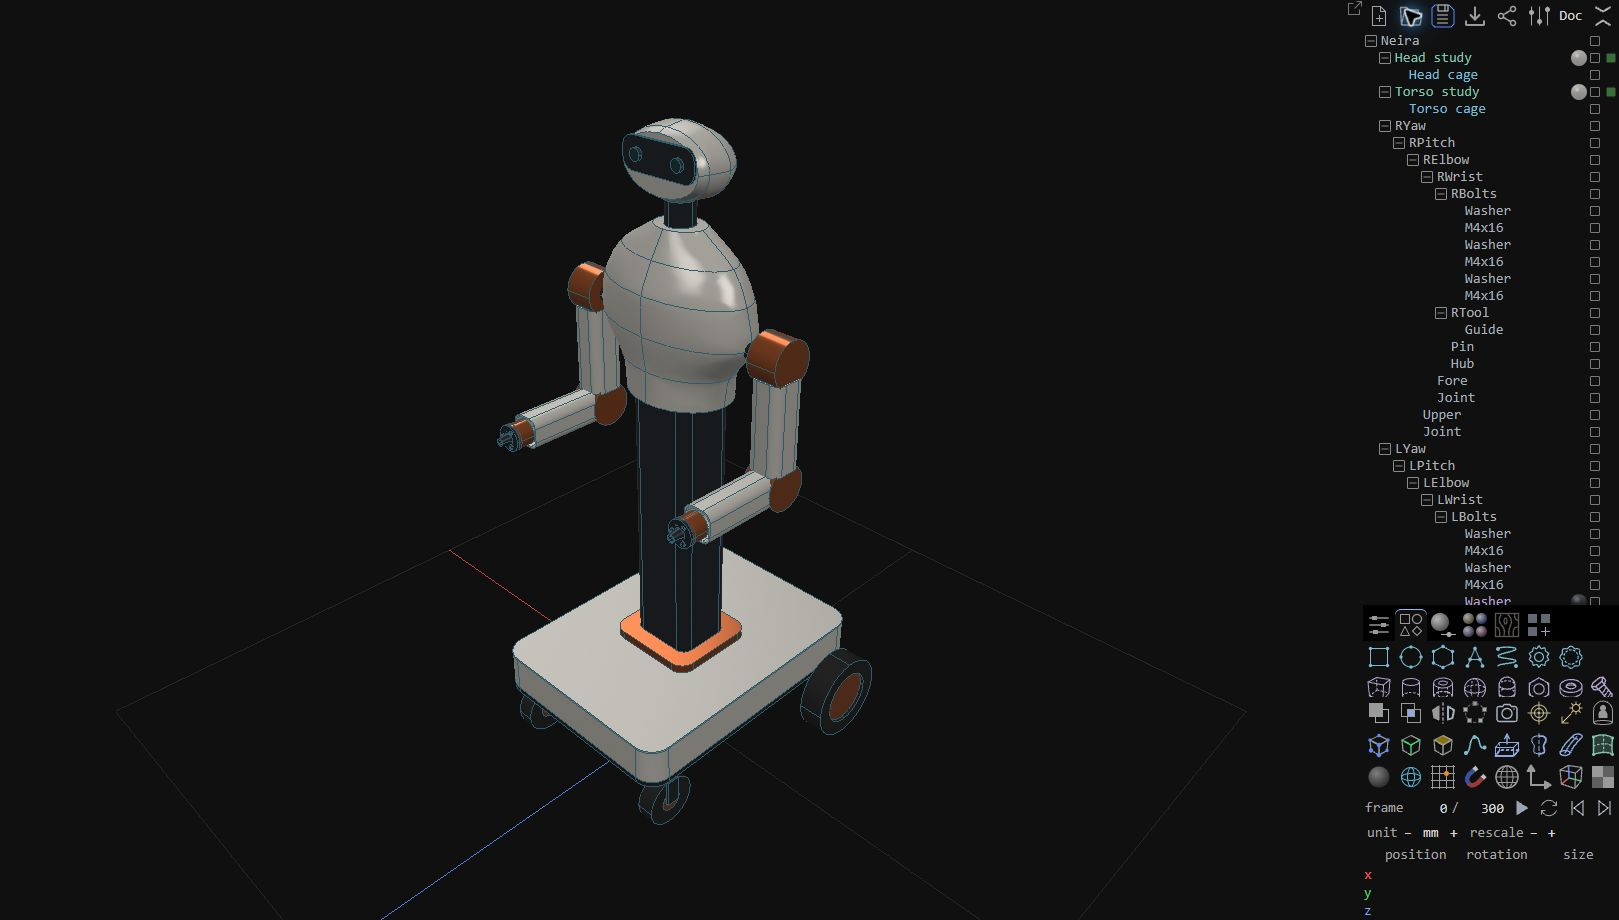
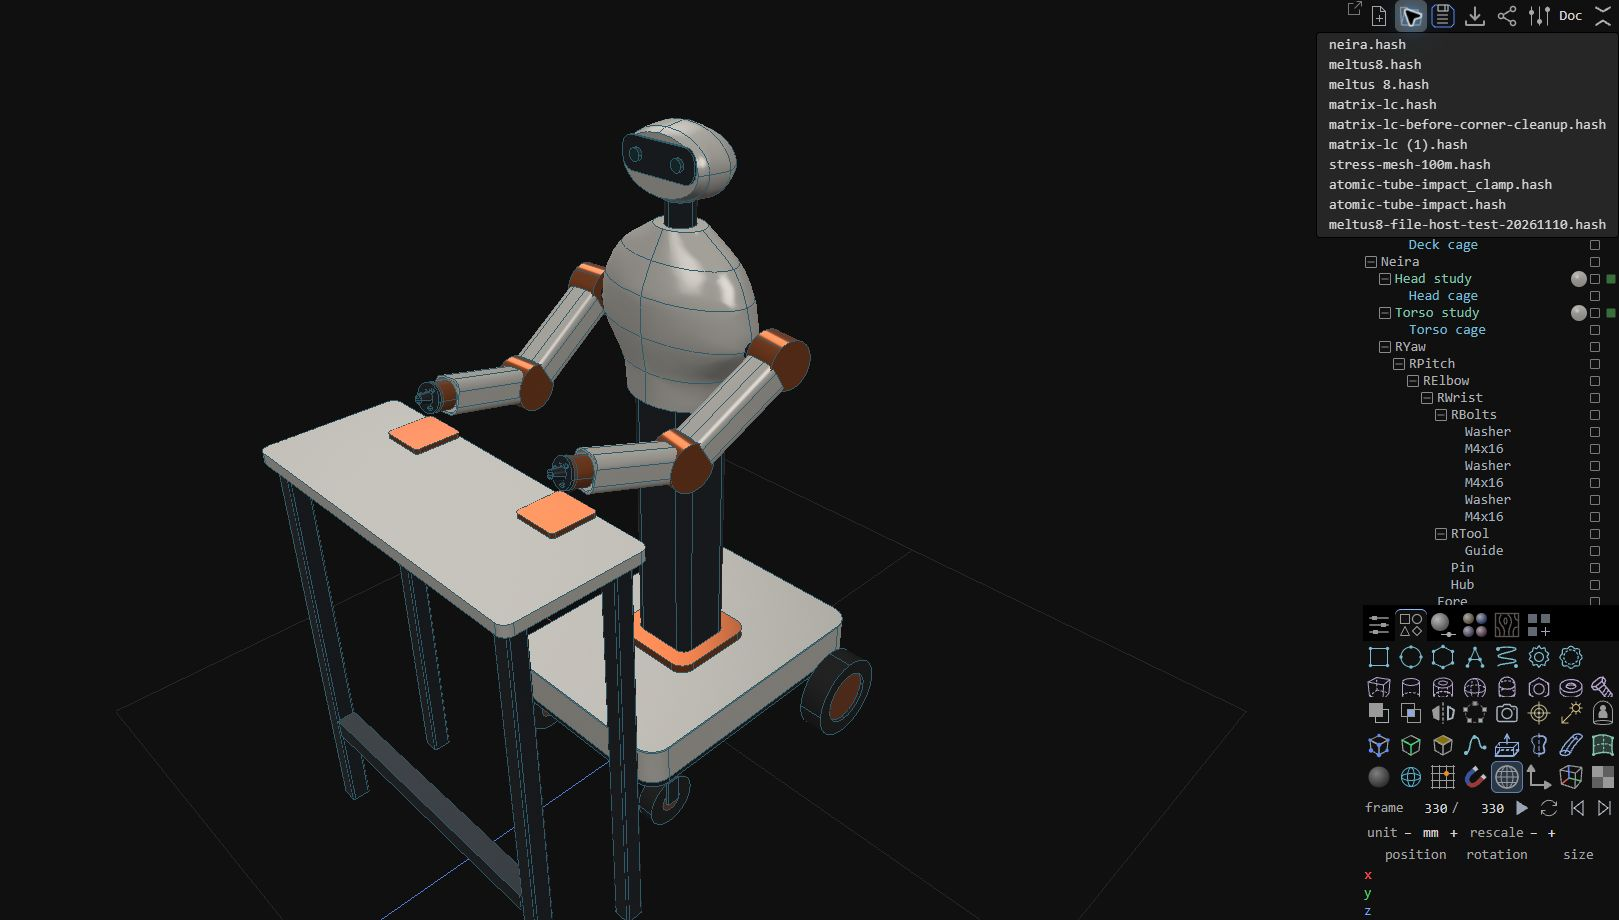
Add native assembly station and measured static work pose

diff --git a/docs/Form-study.md b/docs/Form-study.md
@@ -17,3 +17,18 @@ Six sampled candidate frames at 1363x920: GPU 0.328..0.393 ms; CPU 1.8..2.1 ms. 
[1 lines of base64/hex data omitted]
 
 Next: compare front/profile and arm poses/clearances, then shell split lines, wall thickness, fastening and service access. The current scene contains no new strength, stability, sealed-volume or manufacturing qualification.
+
+## First workstation and pose
+
+The candidate adds a compact wrist-assembly station, not decorative room furniture: top760x300x24mm at X+/-380,Z450..750,Y876..900. Four40x40 support envelopes at X+/-340,Z490/710, rear brace640x40 atY200..240. The front is open. Two100x100x10 setup pads atX+/-200,Z500,Y900..910 mark future fixtures. Legs and the second pad are native Instances. Recipe and pose calculation: `tools/workstation-cage.mjs`. Supports are solid layout envelopes, not specified hollow extrusions or qualified joinery. Base-front gap112.5mm; an800mm departure corridor behind the robot is a provisional space reservation only.
+
+Initial wrist targetY920 was too low. Y950 gave small clearance. Final pose330 targets wrist centersX+/-200,Y975,Z470 with yaw+/-7.2750049579deg, pitch-59.2083491240deg, elbow44.5608743161deg and wrist-roll0. Native readback agrees within1e-9mm (arithmetic precision only). At330, guide/fasteners return to assembled offsets. Original0..300 keyframes remain, timeline extended to330.
+
+Generated display triangles were transformed by each owner world matrix, clipped to the rectangular table/pad footprints, and minimumY compared to their tops. At this single pose, Hub-to-pad gap29.756mm, Guide-to-pad37.492mm; no Fore display triangles entered those footprints. This is not source-surface tolerance, a swept collision check, or whole-robot clearance certification. Six sampled frames at an earlierY950 pose: GPU1.507..2.425ms, CPU1.3..2.1ms,1363x920,NVIDIA Turing. Not a controlled speed comparison.
+
+Important design finding: the current wrist only rolls. At the final pose its axis is about14.65deg above horizontal and cannot independently turn down toward the table. Before claiming an assembly operation, select either an angled fixture or additional wrist articulation. No actuator/joint-limit/stability/load qualification yet.
+
[1 lines of base64/hex data omitted]
+
+
+Final saved workstation round-trip passed:107 owners, zero build errors, preserved pose330 wrist centers and embedded Doc; no unavailable plugins/tags. Canonical SHA256 rechecked unchanged.

diff --git a/STATE.md b/STATE.md
@@ -4,7 +4,7 @@ Updated: 2026-11-17. RESUMED by the user's later instruction to work on HOME and
 
 ## Current form-study checkpoint
 
-Canonical scenes/neira.hash remains unchanged (SHA256 c8751a111944cb762cb4400a6ef56c0d712458731324e1f1d6a80811e60aa036). Separate candidate scenes/neira-form-study.hash adds a native torso cage/patch, hides old torso skins and preserves arms/wrists/base. Read docs/Form-study.md for actual evidence, limits and next work. Recipe: tools/form-study-cage.mjs. No Frame code changed. No new canonical qualification is claimed. Modeling uses an isolated Chrome tab, not the user's existing scenes. Next: head and silhouette refinement, pose clearance checks, then shell construction and workshop layout.
+Canonical scenes/neira.hash remains unchanged (SHA256 c8751a111944cb762cb4400a6ef56c0d712458731324e1f1d6a80811e60aa036). Separate candidate scenes/neira-form-study.hash now has native torso/head studies and the first assembly workstation. Frame330 adds an analytically placed work pose; old body/head envelopes are retained hidden. Read docs/Form-study.md for actual evidence, limits and next work. Recipe: tools/form-study-cage.mjs. No Frame code changed. No new canonical qualification is claimed. Modeling uses an isolated Chrome tab, not the user's existing scenes. Candidate round-trip recovered107 owners, zero build errors, both wrist centers at X+/-200,Y975,Z470, and the complete study Doc. Next: resolve roll-only wrist orientation (angled fixture versus new articulation), check swept clearances, then shell/bench construction. Artifacts/form-study.jpg shows the saved pose.
 
 ## Pause checkpoint and shared Frame release
 
